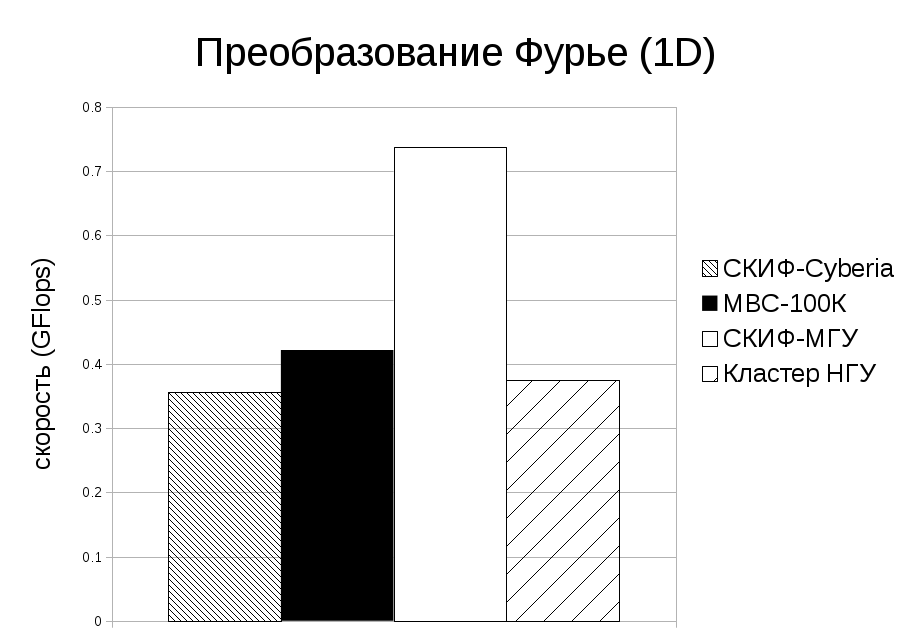
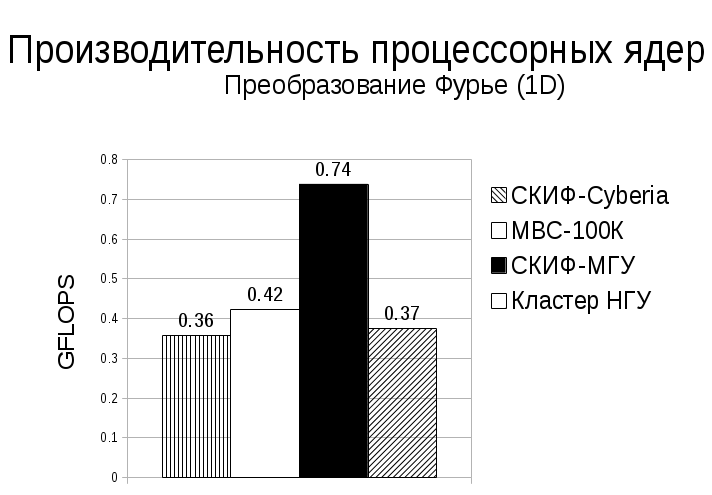
one more pic- 3.2

diff --git a/Dissertation/part3.tex b/Dissertation/part3.tex
@@ -6,12 +6,12 @@
 выстроены в порядке убывания пиковой производительности и производительности на тесте LinPack что, разумеется, дает определенную информацию
 о сравнительной скорости работы представленных там машин. Но очень многие факторы, такие как скорость работы и объем дисков, пропускная 
 способность шины памяти и коммуникационной сети, неоднородность оборудования и т.д. - остаются за пределами рассмотрения. А это именно те 
-проблемы, с которыми придется столкнуться при попытке посчитать на кластере большую задачу. По этой причине тестирование продится с помощью измерения времени, затрачитваемого на различные этапы программы, решающей реальную физическую задачу.
+проблемы, с которыми придется столкнуться при попытке посчитать на кластере большую задачу. По этой причине тестирование проводится с помощью измерения времени, затрачиваемого на различные этапы программы, решающей реальную физическую задачу.
 
 
 
 
-Предложена методика комплексной оценки тестируемой ВС с точки зрения возможности эффективной реализзации математических моделей на основе определения баланса между скоростью счета и скоростью пересылки данных между узлами ВС. Баланс определяется на основе усреднения данных расчетов по методу частиц в ячейках, который используется в качестве оценки снизу по скорости счета и оценки сверху по памяти для большинства существующих математических методов.
+Предложена методика комплексной оценки тестируемой ВС с точки зрения возможности эффективной реализации математических моделей на основе определения баланса между скоростью счета и скоростью пересылки данных между узлами ВС. Баланс определяется на основе усреднения данных расчетов по методу частиц в ячейках, который используется в качестве оценки снизу по скорости счета и оценки сверху по памяти для большинства существующих математических методов.
 
 Кроме того, на основе проведенных расчетов измерена скорость счета и скорость перемещения данных для нескольких протестированных ВС. Результаты, показанные в этой главе опубликованы в \cite{VestnikNNSU,NumMethMultiLevel,SuperFrI,integrApproach}   
 
@@ -169,9 +169,9 @@ W_{PIC,GB/sec} = \frac{W_P\times N_P P_{core}}{\Delta t}
 
 \section{Расчет производительности процессорных элементов}
 \label{calc_PE}
-Описана методика измерения производительности процессорных элементов.
+В этом разделе описана методика измерения производительности процессорных элементов.
 Для того, чтобы отделить время счета от времени обращения к оперативной памяти было рассмотрено время работы процедуры,
-реализующей одномерное преобразование Фурье, которая является частью физической диагностики, используемой в при моделировании динамики плазмы. Измеренное время с учетом известного размера данных и и количества операций в БПФ , переводится во флопсы. Сравнительная производительность процессорных элементов некоторых из рассмотренных в диссертационной работе ВС выглядит как показано на рисунке  \ref{procs_flops}:
+реализующей одномерное преобразование Фурье, которая является частью физической диагностики, используемой при моделировании динамики плазмы. Измеренное время с учетом известного размера данных и количества операций в БПФ \cite{FFT_OVS}, переводится во флопсы: размер массива для одномерного фурье-преобразования 64, количество операций, в соответствии с приведенным в статье \cite{FFT_OVS} 1190. Сравнительная производительность процессорных элементов некоторых из рассмотренных в диссертационной работе ВС выглядит как показано на рисунке  \ref{procs_flops}:
 
 \begin{figure}[htb]
 	\begin{center}
@@ -190,7 +190,7 @@ W_{PIC,GB/sec} = \frac{W_P\times N_P P_{core}}{\Delta t}
 	\begin{center}
 		\includegraphics[height=10cm,keepaspectratio]{images/processor_FLOPS_PIC.png}
 	\end{center}
-	\caption{Производительность процессоров Intel Xeon, измеренная на основе времени вычисления движения модельных частиц. Измерения выполнены в 2010 г.}
+	\caption{Производительность отдельного ядра процессоров Intel Xeon, измеренная на основе времени вычисления движения модельных частиц. Измерения выполнены в 2010 г.}
 	\label{procs_flops_pic}
 \end{figure} 
 
@@ -209,7 +209,7 @@ N_{PIC,FLOPS} = \frac{F_P\times N_P \times P_{core}}{\Delta t}
 \end{itemize}	
 
 \begin{table}[ht]
-	\caption{Производительность процессоров Intel Xeon, измеренная на основе времени вычисления движения модельных частиц.}
+	\caption{Производительность ядер процессоров Intel Xeon, измеренная на основе времени вычисления движения модельных частиц.}
 	\label{PIC_vs_LU}
 	\begin{tabular}{|c|c|c|c|c|c|}
 		\hline
